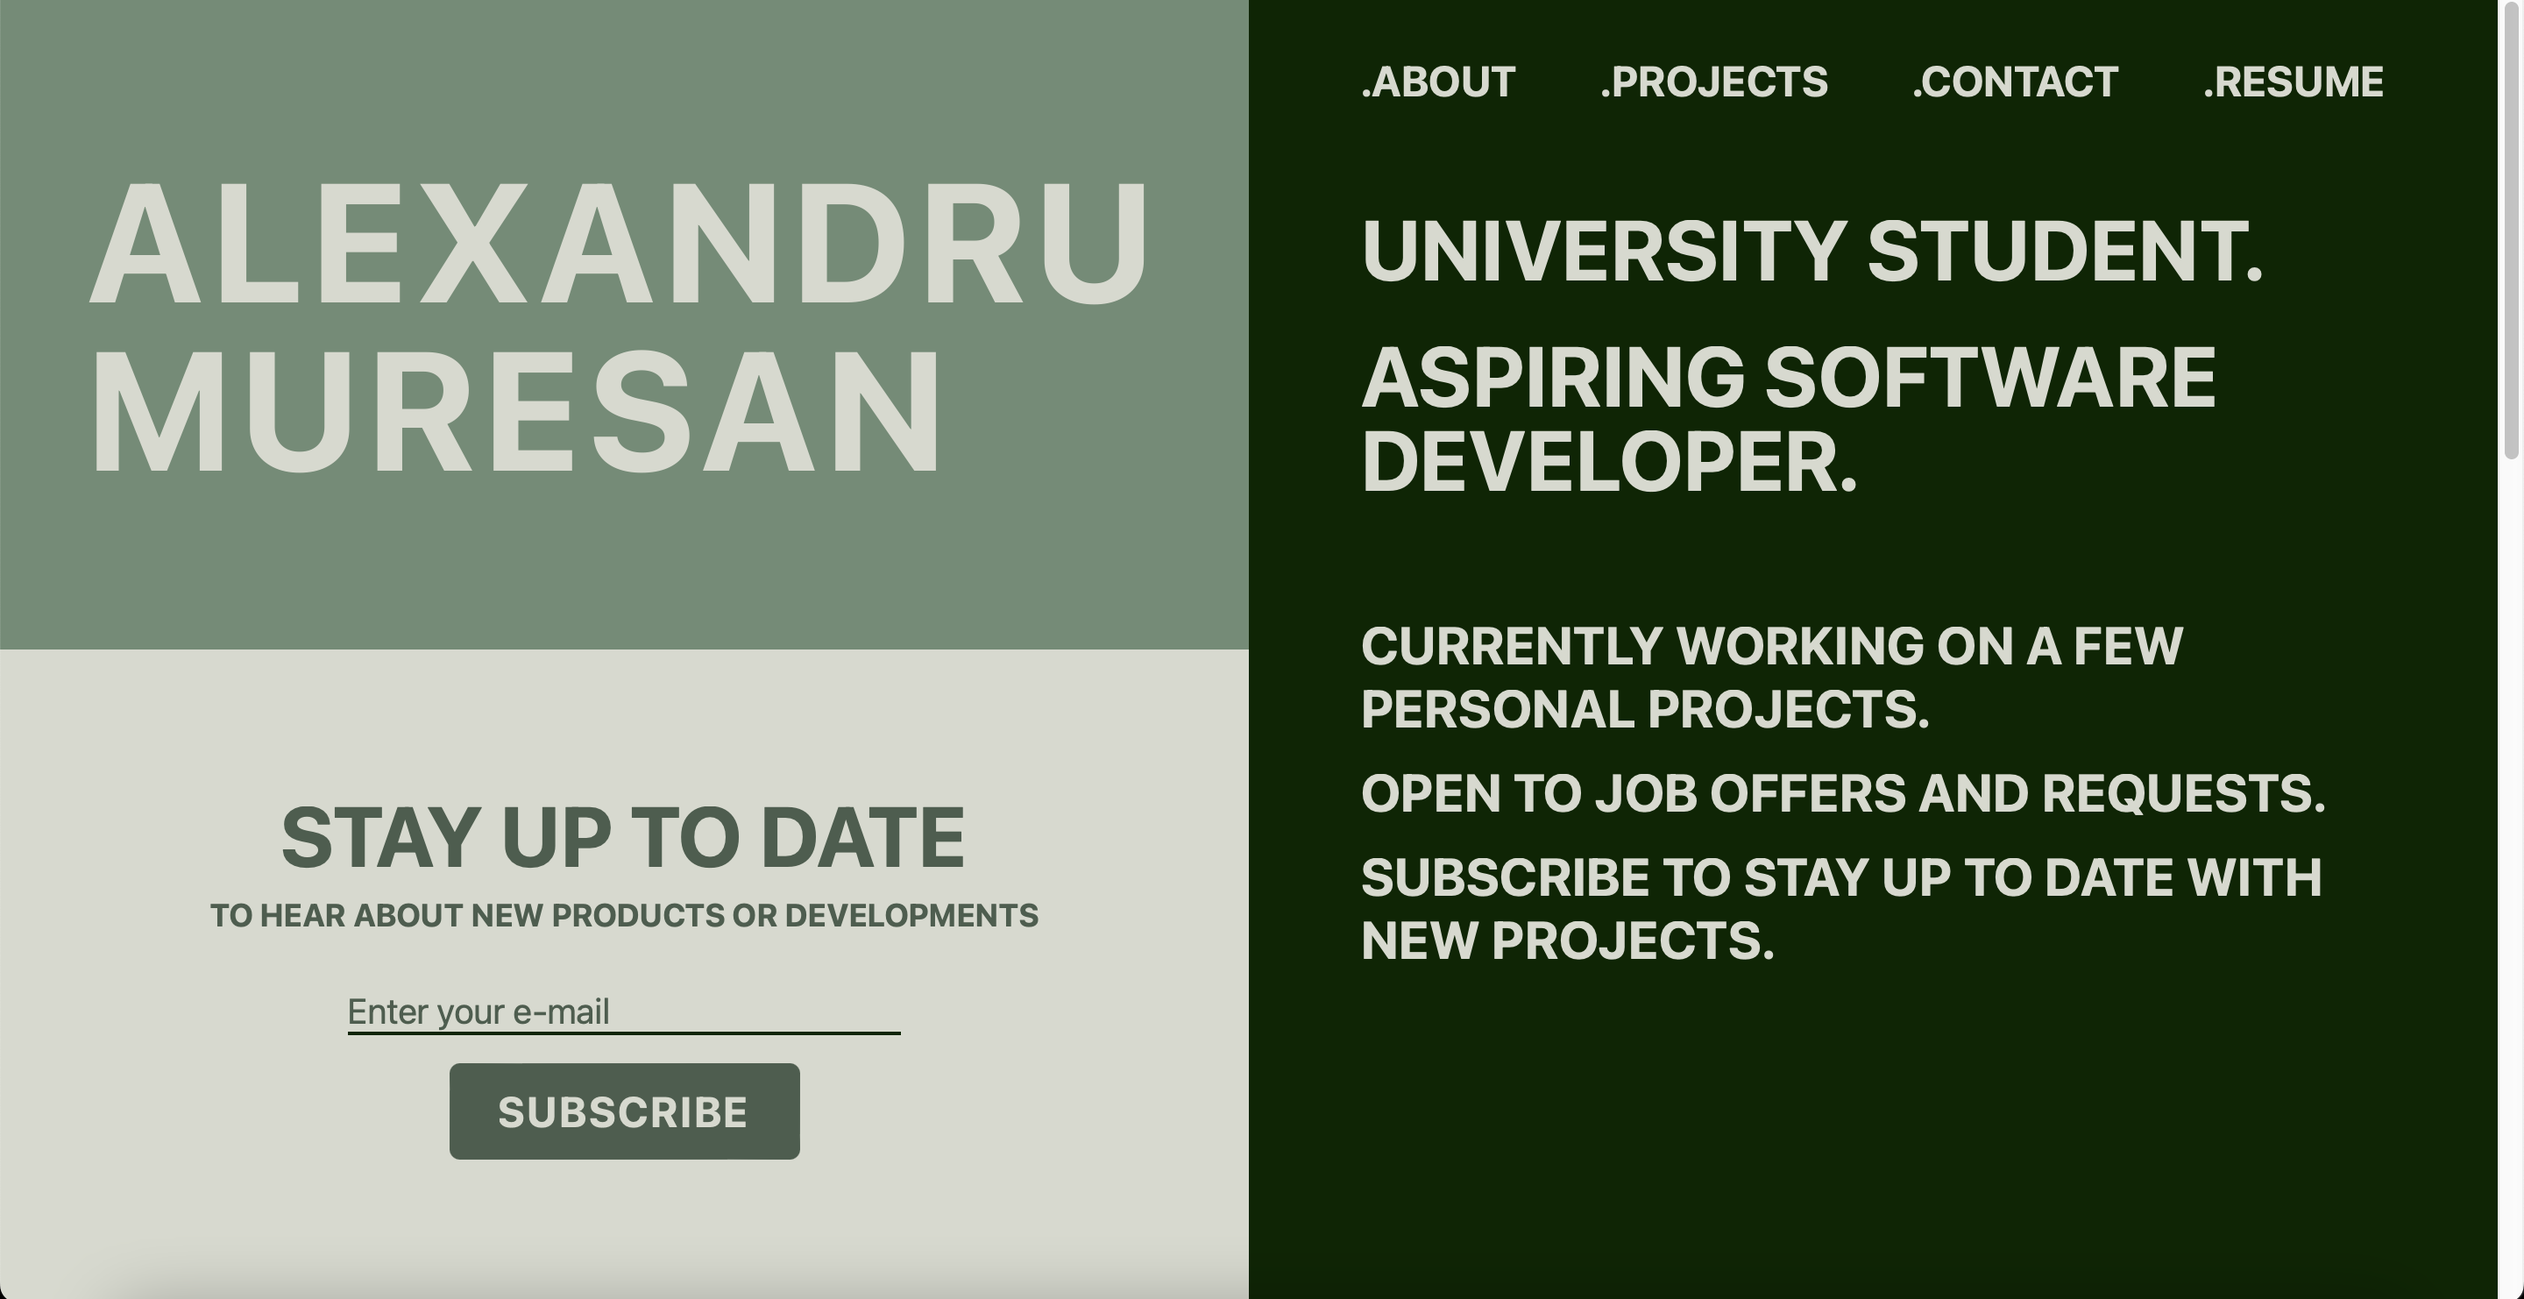
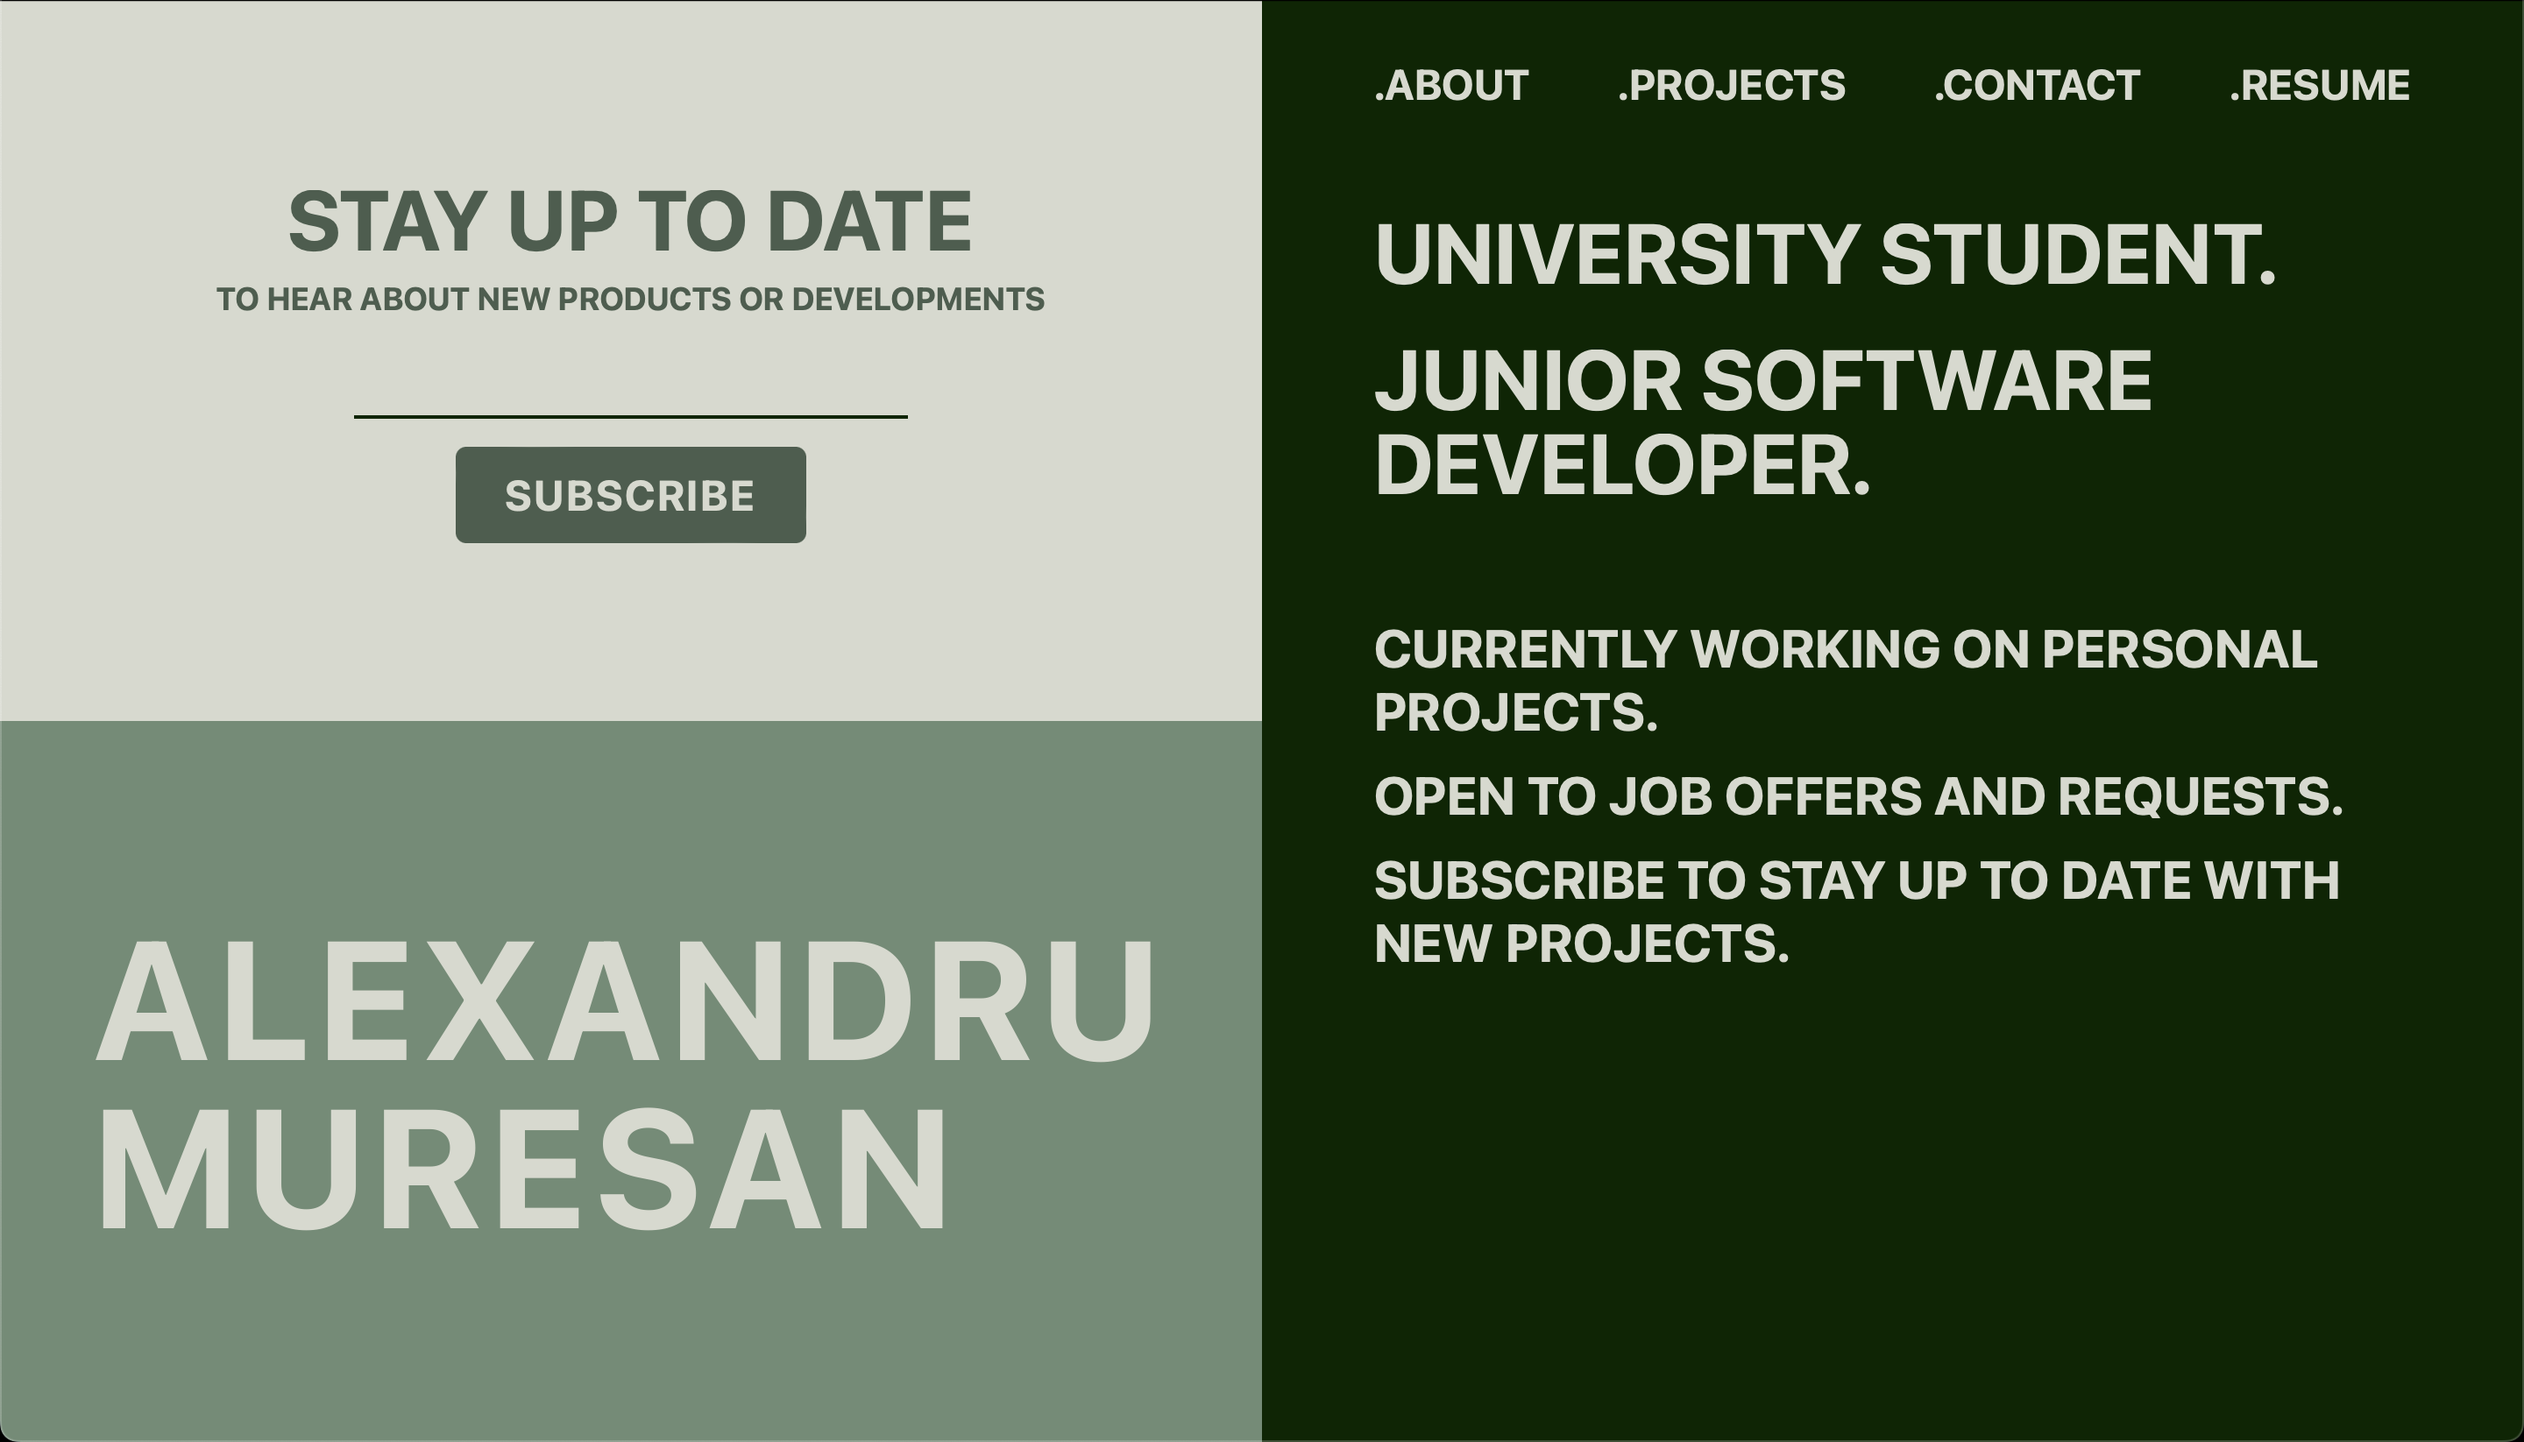
added latest project

diff --git a/index.html b/index.html
@@ -281,15 +281,73 @@
         </div>
       </div>
 
-      <!--<hr class="w-5/6 border-t border-midgreen" />-->
-
       <!--Portfolio-->
       <div
         class="flex flex-col lg:flex-row bg-bone justify-center items-center lg:items-start"
       >
         <a
           class="flex justify-center mt-8 mb-4 lg:my-10 lg:ml-10 w-3/4 max-w-[500px] lg:max-w-[350px] xl:max-w-[400px]"
-          href="http://tautech.cs.messiah.edu"
+          href="http://alexandrumuresan.dev"
+          target="_blank"
+          ><img
+            class="rounded-xl border border-midgreen/50"
+            src="/img/portfolio.png"
+            alt=""
+          />
+        </a>
+        <div
+          class="flex flex-col justify-center items-center lg:items-start lg:my-10 mb-8"
+        >
+          <h6 class="text-midgreen text-4xl lg:text-5xl lg:ml-6 font-bold">
+            PERAZA'S CLEANING
+          </h6>
+          <div class="flex flex-row justify-center mb-4">
+            <p class="text-midgreen text-lg lg:text-xl lg:ml-6">
+              May 2023-Present •
+            </p>
+            <div class="flex flex-row">
+              <a
+                href="https://github.com/dev-arekusandoru/perazas"
+                class="w-[25px] h-[25px] ml-2"
+                target="_blank"
+              >
+                <img src="/img/github.svg" alt="" />
+              </a>
+              <a
+                href="https://dev-arekusandoru.github.io/perazas/src/index.html"
+                class="flex flex-row items-center px-2"
+                target="_blank"
+              >
+                <i
+                  class="fa-solid fa-up-right-from-square fa-lg"
+                  style="color: #000000"
+                ></i>
+              </a>
+            </div>
+          </div>
+          <p
+            class="text-lg md:text-lg lg:text-xl mx-6 text-midgreen text-center lg:text-left"
+          >
+            • Developed and designed a professional website for a cleaning
+            company, showcasing their services, expertise, and value
+            proposition.
+            <br />• Implemented interactive features and user-friendly
+            navigation to enhance the website's functionality and user
+            experience.<br />• Collaborated with the cleaning company's team to
+            incorporated their feedback and design prefer to create a visually
+            appealing and informative online presence.
+          </p>
+        </div>
+      </div>
+
+      <hr class="w-5/6 border-t border-midgreen" />
+
+      <div
+        class="flex flex-col lg:flex-row bg-bone justify-center items-center lg:items-start"
+      >
+        <a
+          class="flex justify-center mt-8 mb-4 lg:my-10 lg:ml-10 w-3/4 max-w-[500px] lg:max-w-[350px] xl:max-w-[400px]"
+          href="http://alexandrumuresan.dev"
           target="_blank"
           ><img
             class="rounded-xl border border-midgreen/50"
@@ -314,7 +372,7 @@
                 <img src="/img/github.svg" alt="" />
               </a>
               <a
-                href="https://dev-arekusandoru.github.io/portfolio/src/index.html"
+                href="https://alexandrumuresan.dev"
                 class="flex flex-row items-center px-2"
                 target="_blank"
               >
